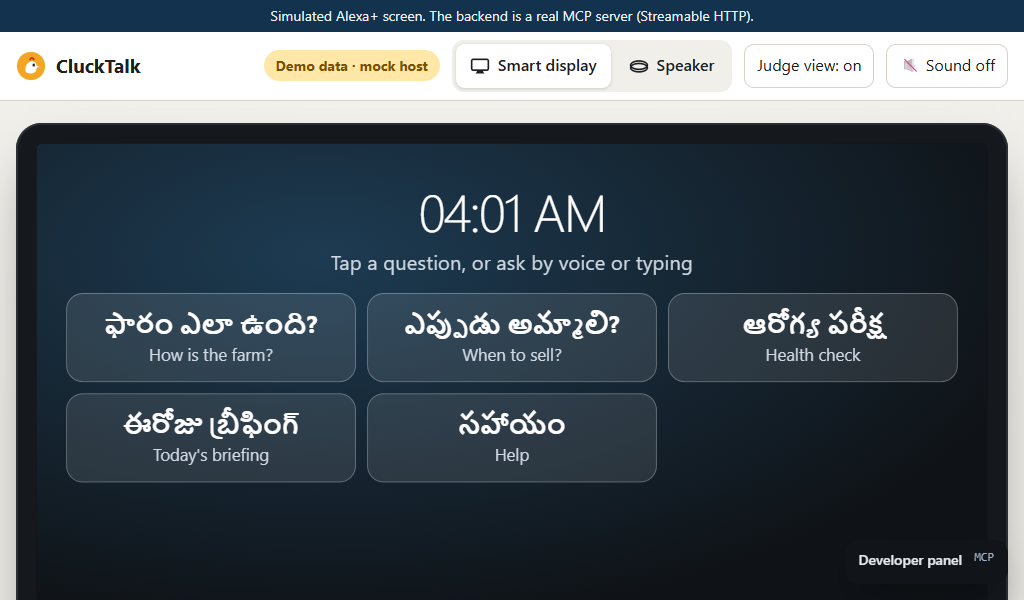
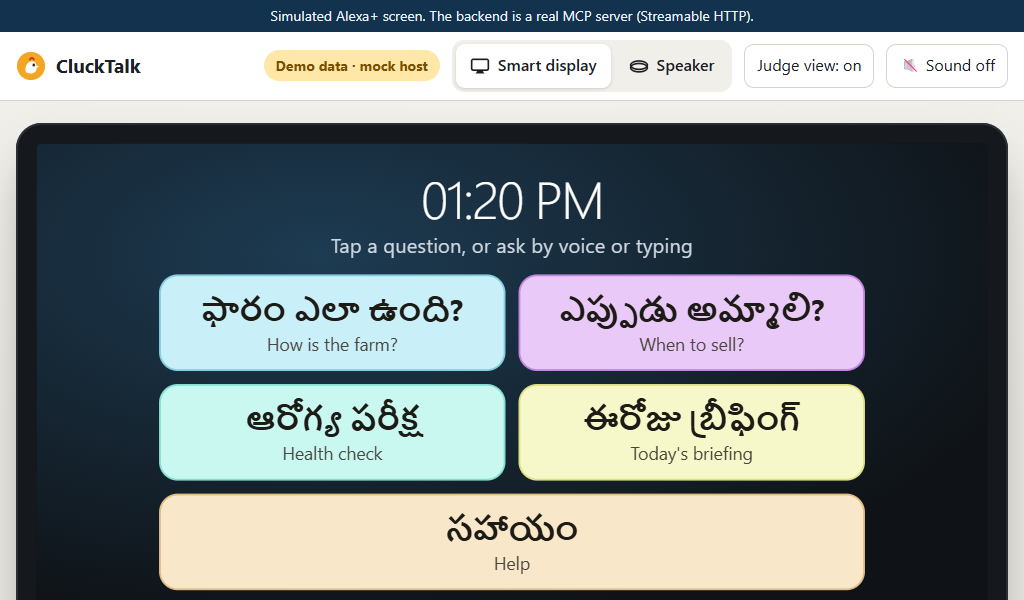
evidence: Simulator screenshots re-taken for the tile look, the drawer and the Yes/No tiles
Claude-Session: https://claude.ai/code/session_01UUJJEJQhqStNQk3MxSocrL

diff --git a/docs/evidence/2026-10-18_judge_view.md b/docs/evidence/2026-10-18_judge_view.md
@@ -3,16 +3,20 @@
 Demo mode only (`MOCK_BEDROCK=true`, synthetic farm, rule-based host). No AWS call. Screenshots are from the real
 Simulator and MCP server (two processes, started by hand and stopped by PID), driven in headless Chrome over its
 DevTools protocol, viewport 1024x600 (the two device-screen shots are clipped to the 1024x600 screen at scale 1).
+Restyled the same day: the starters and the Yes/No taps are large colour tiles in the colours of the farmer's pilot page
+(pastel tints, large Telugu label, English gloss under it); the banner, the device frame and the "Simulator" name are
+unchanged. At 1920x1080 and 1366x768 the device sits left and the conversation right, so the Yes/No taps stay on screen
+after the longest answer; the 1024x600 shots below show the one-column layout of a small window.
 They show what the page does; they do not show Telugu speech (there is none: the microphone is the browser's
 English speech recognition, and spoken answers are English) and nothing here ran on Alexa+.
 
 | File | What it shows |
 |---|---|
-| `01_first-screen_chips_1024x600.png` | The banner, neutral device labels (Smart display / Speaker), the judge-view switch, and five starter chips: the Telugu question with its English gloss under it |
+| `01_first-screen_chips_1024x600.png` | The banner, neutral device labels (Smart display / Speaker), the judge-view switch, and five starter tiles: the Telugu question large, its English gloss under it |
 | `02_telugu-answer_judge-view-on_1024x600.png` | The "Help" answer on the device screen: the Telugu answer large, its English side small under it |
 | `03_telugu-answer_judge-view-off_1024x600.png` | The same answer with the judge view off: Telugu only; the screen does not overflow |
-| `04_vet-offer_yes-no-taps_1024x600.png` | The health-check chip's answer ends with the vet-summary offer; the Yes and No taps appear (each is an existing catalog pair) |
-| `05_developer-panel_mcp-wire_1024x600.png` | The developer panel with the `tools/call` JSON-RPC request and response of the chip's turn |
+| `04_vet-offer_yes-no-taps_1024x600.png` | The health-check chip's answer ends with the vet-summary offer; the Yes and No tiles appear under the ask box (each is an existing catalog pair); the window is scrolled to the end of the page |
+| `05_developer-panel_mcp-wire_1024x600.png` | The developer panel, now a right-hand drawer that pushes the page left instead of covering it, with the `tools/call` JSON-RPC request and response of the chip's turn |
 
 The chips send these English sentences (the demo host reads English text only): "How is the farm?", "When to sell?",
 "Today's briefing", "Help" (each is the chip's own English gloss) and "Shed two birds are coughing and not eating" for
